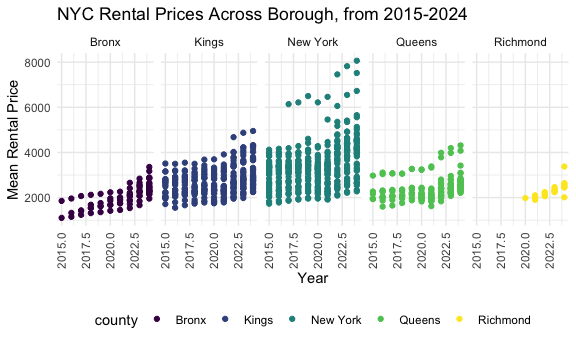
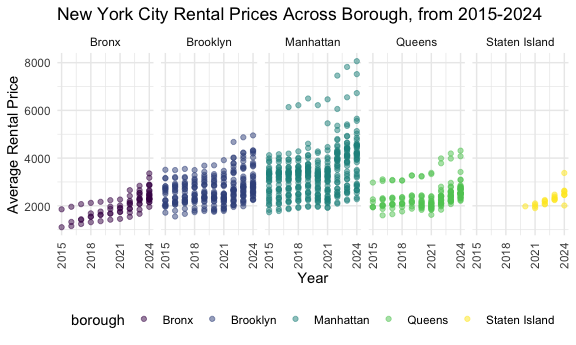
Problem 2 - avg rental price plots

diff --git a/P8105_HW3_msp2210.md b/P8105_HW3_msp2210.md
@@ -172,8 +172,17 @@ zipcodes_df =
     na = c("NA", ".", "")
     ) %>%
   janitor::clean_names() %>%
-  filter(!(zip_code %in% c(10463, 11201) & county == "New York")) %>% 
-  select(-state_fips, -county_code, -county_fips, -file_date)
+  filter(!(zip_code %in% c(10463, 11201) & county == "New York")) %>%
+  mutate(
+    borough = case_match(
+      county,
+      "Bronx" ~ "Bronx",
+      "Kings" ~ "Brooklyn",
+      "New York" ~ "Manhattan",
+      "Queens" ~ "Queens",
+      "Richmond" ~ "Staten Island"
+    )) %>% 
+  select(-state_fips, -county_code, -county_fips, -file_date, -county)
 ```
 
     ## Rows: 322 Columns: 7
@@ -191,7 +200,7 @@ zipcodes_df[duplicated(zipcodes_df$zip_code),]
 ```
 
     ## # A tibble: 0 × 3
-    ## # ℹ 3 variables: county <chr>, zip_code <dbl>, neighborhood <chr>
+    ## # ℹ 3 variables: zip_code <dbl>, neighborhood <chr>, borough <chr>
 
 Loading, importing, tidying rental price
 
@@ -234,7 +243,7 @@ zillow_df =
   left_join(
     rentalprice_df, zipcodes_df, by = "zip_code"
     ) %>%
-  relocate(year, month, day, state, city, county, zip_code, neighborhood, rent)
+  relocate(year, month, day, state, city, borough, zip_code, neighborhood, rent)
 ```
 
 **How many ZIP codes are observed 116 times? How many are observed fewer
@@ -274,32 +283,32 @@ each borough and year.**
 
 ``` r
 zillow_df %>%
-  group_by(county, year) %>%
+  group_by(borough, year) %>%
   summarize(
     mean_rent = mean(rent, na.rm = TRUE)
   ) %>% 
   pivot_wider(
-    names_from = "county",
+    names_from = "borough",
     values_from = "mean_rent"
   ) %>% 
   knitr::kable(digits = 2)
 ```
 
-    ## `summarise()` has grouped output by 'county'. You can override using the
+    ## `summarise()` has grouped output by 'borough'. You can override using the
     ## `.groups` argument.
 
-| year |   Bronx |   Kings | New York |  Queens | Richmond |
-|-----:|--------:|--------:|---------:|--------:|---------:|
-| 2015 | 1759.60 | 2492.93 |  3022.04 | 2214.71 |      NaN |
-| 2016 | 1520.19 | 2520.36 |  3038.82 | 2271.96 |      NaN |
-| 2017 | 1543.60 | 2545.83 |  3133.85 | 2263.30 |      NaN |
-| 2018 | 1639.43 | 2547.29 |  3183.70 | 2291.92 |      NaN |
-| 2019 | 1705.59 | 2630.50 |  3310.41 | 2387.82 |      NaN |
-| 2020 | 1811.44 | 2555.05 |  3106.52 | 2315.63 |  1977.61 |
-| 2021 | 1857.78 | 2549.89 |  3136.63 | 2210.79 |  2045.43 |
-| 2022 | 2054.27 | 2868.20 |  3778.37 | 2406.04 |  2147.44 |
-| 2023 | 2285.46 | 3015.18 |  3932.61 | 2561.62 |  2332.93 |
-| 2024 | 2496.90 | 3125.66 |  4078.44 | 2693.58 |  2536.44 |
+| year |   Bronx | Brooklyn | Manhattan |  Queens | Staten Island |
+|-----:|--------:|---------:|----------:|--------:|--------------:|
+| 2015 | 1759.60 |  2492.93 |   3022.04 | 2214.71 |           NaN |
+| 2016 | 1520.19 |  2520.36 |   3038.82 | 2271.96 |           NaN |
+| 2017 | 1543.60 |  2545.83 |   3133.85 | 2263.30 |           NaN |
+| 2018 | 1639.43 |  2547.29 |   3183.70 | 2291.92 |           NaN |
+| 2019 | 1705.59 |  2630.50 |   3310.41 | 2387.82 |           NaN |
+| 2020 | 1811.44 |  2555.05 |   3106.52 | 2315.63 |       1977.61 |
+| 2021 | 1857.78 |  2549.89 |   3136.63 | 2210.79 |       2045.43 |
+| 2022 | 2054.27 |  2868.20 |   3778.37 | 2406.04 |       2147.44 |
+| 2023 | 2285.46 |  3015.18 |   3932.61 | 2561.62 |       2332.93 |
+| 2024 | 2496.90 |  3125.66 |   4078.44 | 2693.58 |       2536.44 |
 
 Since 2015, there has been a general increase in rent. While the rental
 price observations are unavailable in Richmond county from 2015-2019,
@@ -316,25 +325,72 @@ available years.**
 
 ``` r
 zillow_df %>%
-  group_by(zip_code, county, year) %>% 
+  group_by(zip_code, borough, year) %>%
   summarize(
     mean_rent = mean(rent, na.rm = TRUE)
   ) %>% 
-  ggplot(aes(x = year, y = mean_rent, color = county)) +
-  geom_point() + 
-  facet_grid(. ~ county) +
+  ggplot(aes(x = year, y = mean_rent, color = borough)) +
+  geom_point(alpha = 0.5) +
+  facet_grid (. ~ borough) +
   theme(axis.text.x = element_text(angle = 90, hjust = 1, vjust = 0.5)) +
   labs(
-    title = "NYC Rental Prices Across Borough, from 2015-2024",
+    title = "New York City Rental Prices Across Borough, from 2015-2024",
     x = "Year",
-    y = "Mean Rental Price"
+    y = "Average Rental Price"
+  ) +
+  scale_x_continuous(
+    breaks = seq(2015, 2024, by = 3)
   )
 ```
 
-    ## `summarise()` has grouped output by 'zip_code', 'county'. You can override
+    ## `summarise()` has grouped output by 'zip_code', 'borough'. You can override
     ## using the `.groups` argument.
 
     ## Warning: Removed 531 rows containing missing values or values outside the scale range
     ## (`geom_point()`).
 
 <img src="P8105_HW3_msp2210_files/figure-gfm/zip-codes-plot-1.png" width="90%" />
+
+This plot shows the distribution of average rental prices, for each
+zip-code from 2015-2024, divided by borough. This shows that there is a
+general upwards trend in zip code-level rental price from 2015-2024
+across each borough, with most significant increases in Manhattan,
+folowed by QUeens and then Brooklyn.
+
+**Compute the average rental price within each ZIP code over each month
+in 2023. Make a reader-friendly plot showing the distribution of
+ZIP-code-level rental prices across boroughs.**
+
+``` r
+zillow_df %>%
+  group_by(zip_code, borough, month) %>% 
+  filter(year == 2023) %>%
+  summarize(
+    mean_rent_2023 = mean(rent, na.rm = TRUE)
+  ) %>%
+  ggplot(aes(x = month, y = mean_rent_2023, color = borough)) +
+  geom_point(alpha = 0.5) +
+  facet_grid (. ~ borough) +
+  scale_x_continuous(
+    breaks = seq(1, 12, by = 1)
+  ) +
+  labs(
+    title = "New York City Rental Prices Across Borough in 2023",
+    x = "Month",
+    y = "Average Rental Price"
+  )
+```
+
+    ## `summarise()` has grouped output by 'zip_code', 'borough'. You can override
+    ## using the `.groups` argument.
+
+    ## Warning: Removed 333 rows containing missing values or values outside the scale range
+    ## (`geom_point()`).
+
+<img src="P8105_HW3_msp2210_files/figure-gfm/2023-plot-1.png" width="90%" />
+
+This plot shows the distribution of average rental prices, for each
+zip-code from 2023, divided by borough. Here, the trend is relatively
+stable with no large significant increases or decreases at the zip-code
+level. Even in the year of 2023, Manhattan had some of the highest
+average rental prices when compared to the other boroughs.
